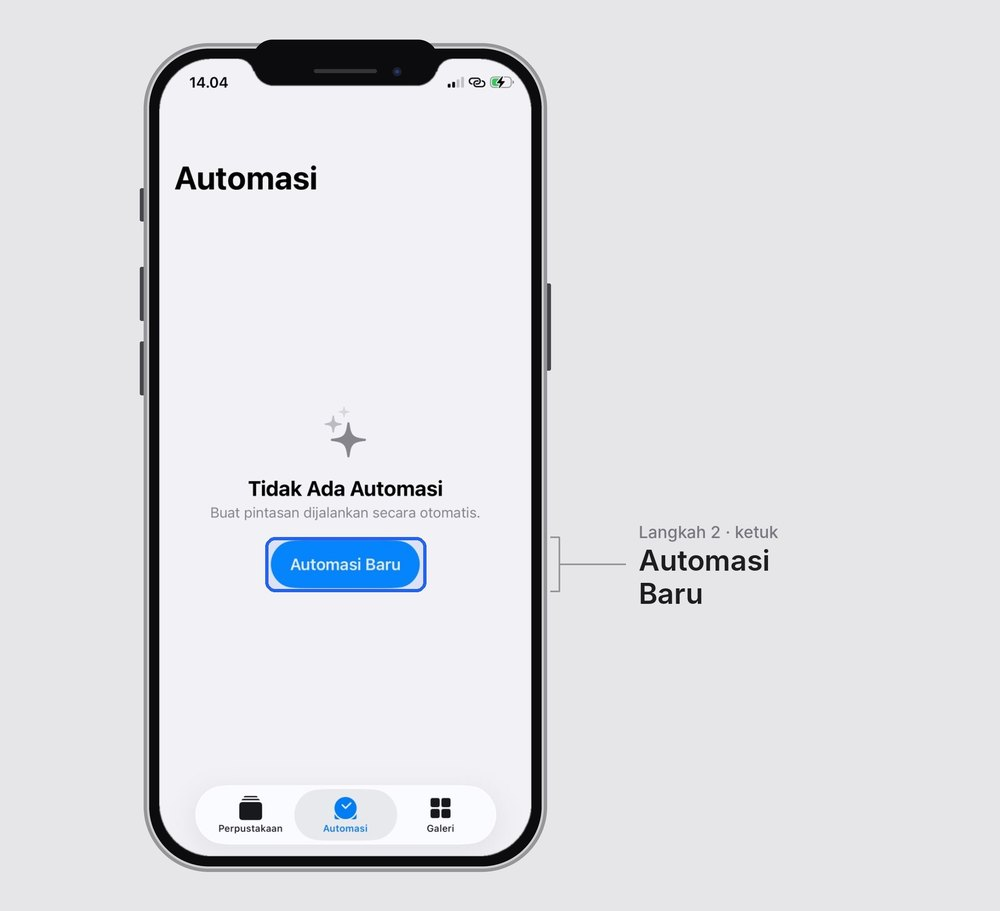
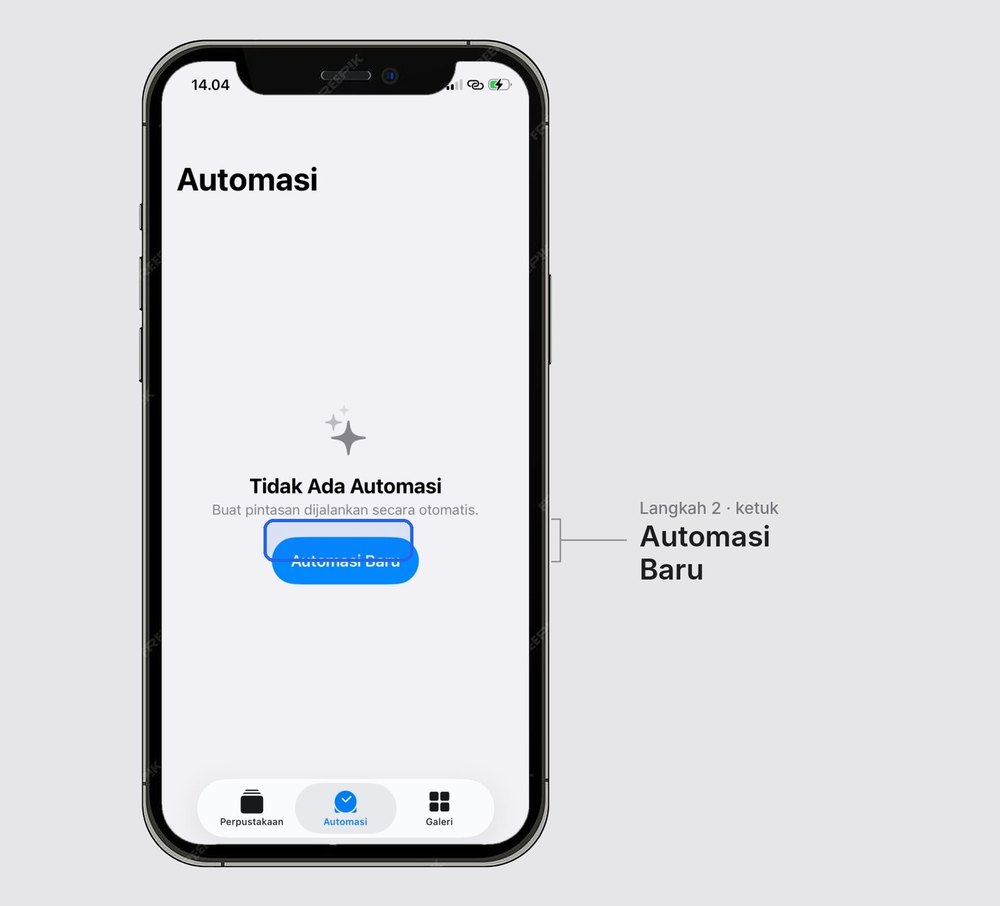
Gambar contoh asal unit untuk iPhone 11-12 Pro Max, perbarui gambar seri 11-12
Claude-Session: https://claude.ai/code/session_01T5xMfUmYxqi5fKuphGFddX

Changed region(s): [[0.124, 0.0309, 0.589, 0.9581], [0.217, 0.5254, 0.465, 0.649], [0.62, 0.5563, 0.775, 0.6799]]

diff --git a/index.html b/index.html
@@ -155,7 +155,7 @@ const SEC=[
 {
 "id": "asal",
 "t": "Unit tersebut berasal dari mana?",
-"img": [{"src":"img/contoh/contoh-asal-home.jpg","when":"frhome"}],
+"img": [{"src":"img/contoh/contoh-asal-home.jpg","when":"frhome"},{"src":"img/contoh/contoh-asal-1112.jpg","when":"fr1112"}],
 "k": "r",
 "s": "Asal unit",
 "d": "Tanyakan ke penjual, lalu cocokkan dengan kondisi unit dan kelengkapannya.",

diff --git a/sw.js b/sw.js
@@ -1,4 +1,4 @@
-const C="cek-iphone-v25";
+const C="cek-iphone-v26";
 const CORE=["./","./index.html"];
 self.addEventListener("install",e=>{
   // cache:"reload" = ambil langsung dari server, jangan dari cache browser
